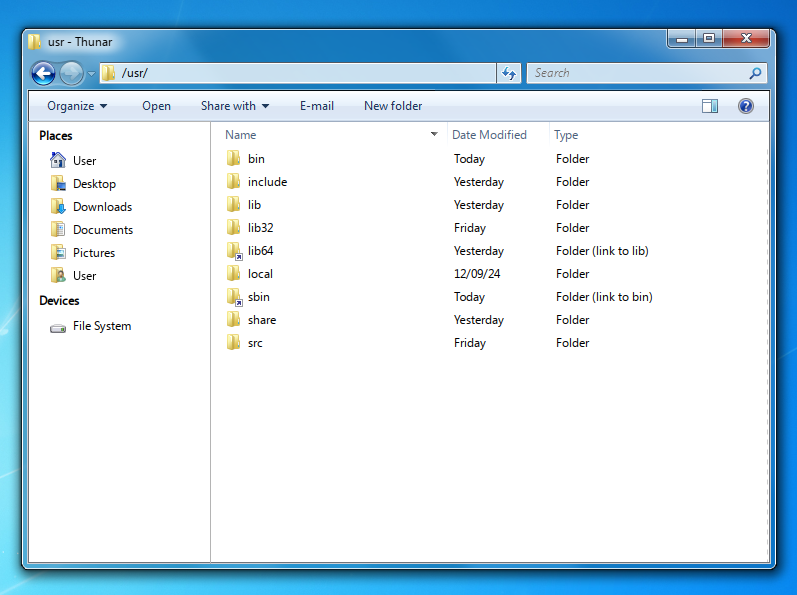
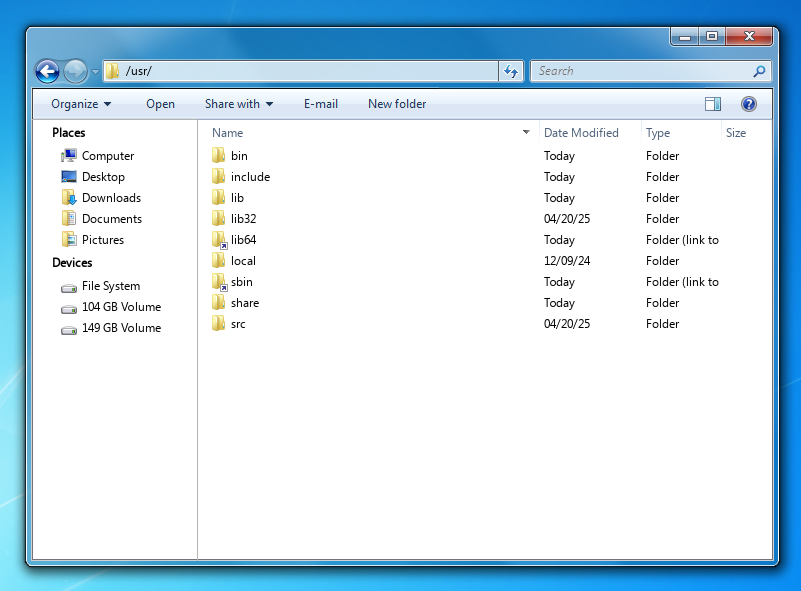
big update! (added more details and finishing touches).

Changed region(s): [[0.0, 0.0305, 0.9937, 1.0]]

diff --git a/gtk-3.0/thunar.css b/gtk-3.0/thunar.css
@@ -74,6 +74,11 @@ Make sure that all changes made here are part of the Thunar application.
 
  }
 
+ .thunar toolbutton .toggle {
+  margin-left: 2px;
+
+ }
+
 .thunar entry {
   height: 16px !important;
   border-bottom: solid #a6b5c4 1px;
@@ -89,7 +94,7 @@ Make sure that all changes made here are part of the Thunar application.
   margin: 2px;
   margin-bottom: 3px;
   margin-right: -6px;
-  margin-left: 7px;
+  margin-left: 8px;
 }
 
 .thunar stack {
@@ -103,10 +108,10 @@ Make sure that all changes made here are part of the Thunar application.
   border-left: 2px ridge #70737a;
   border-bottom: 2px groove #70737a;
   margin-bottom: 7px;
-  box-shadow: -1px -60px 1px 1px black inset;
   outline: 10px solid black;
-  text-decoration: none
-  
+  text-decoration: none;
+  padding-left: 11px;
+  padding-right: 1px;
   }
   
   .thunar scrolledwindow.standard-view {
@@ -260,6 +265,10 @@ Make sure that all changes made here are part of the Thunar application.
   padding: 4px; /* Padding */
 }
 
+.thunar treeview.view {
+  padding: 0px;
+}
+
 
 .thunar treeview header button:hover {
   color: #4c607a; /* Text color */
@@ -283,63 +292,21 @@ Make sure that all changes made here are part of the Thunar application.
   .thunar widget.view:selected:focus {
     background: linear-gradient(#dceafc #c6dffc); }
 
-.treeview {
-  font-family: tahoma;
-  font-weight: 1px;
-}
+  .thunar treeview {
+    -GtkTreeView-vertical-separator: 0;
+    outline-width: 1px;
+    outline-offset: 1px;
+    padding: 2px;
+    -gtk-icon-style: regular; }
+  
+  .thunar treeview.view {
+    padding-top: 0px;
+    padding-bottom: 0px;
+    padding-left: 1px;
+  }
 
-.caja-navigation-window > grid > paned > * {
-  border-top: 2px solid;
-  border-image: url("./thunar-assets/headerbox.png");
-  border-image-slice: 2 2 2 2
-}
-
-.thunar-sidebar .thunar-treeview,
-.thunar-sidebar .thunar-sidebar-title {
-  color: #000;
-  background-color: transparent;
-  font-weight: normal;
-  font-family: Tahoma;
-}
-
-.caja-side-pane scrolledwindow {
-  background-image: url("thunar-assets/wvleft.png");
-  background-position: left top;
-  background-repeat: no-repeat;
-}
-
-.caja-navigation-window toolbar {
-  padding: 2px;
-  margin-top: 0px;
-  margin-left: 0px;
-  margin-right: 0px;
-  margin-bottom: 0px;
-  color: grey;
-  background-color: grey;
-  border-top: 0px solid;
-  border-bottom: 0px solid;
-  border-right: 2px solid;
-  border-left: 7px solid;
-  border-image: url("thunar-assets/fm_toolbar.png");
-  border-image-slice: 2 2 2 7; }
-
-.caja-navigation-window paned > box > paned > box > .horizontal {
-  margin: -4px;
-  margin-bottom: -2px;
-  padding: 3px;
-  padding-top: 4px;
-  border-top: 0px solid;
-  border-bottom: 2px solid;
-  border-right: 2px solid;
-  border-left: 7px solid;
-  border-image: url("thunar-assets/fm_toolbar.png");
-  border-image-slice: 2 2 2 7; }
-
-.caja-navigation-window grid > paned > box > notebook widget > box {
-  padding: 1px;
-  border-color: black;
-  border: 1px solid darkslategray;
-  border-bottom: 1px solid gray;
-  border-right: 1px solid gray;
-  border-radius: 0px;
-  box-shadow: 1px 1px black inset, -1px -1px white inset; }
+  .thunar .frame, .thunar frame > border {
+    box-shadow: none;
+    background-color: white; }
+  
+ 

diff --git a/gtk-3.0/gtk.css b/gtk-3.0/gtk.css
@@ -659,10 +659,9 @@ list separator:backdrop {
 }
 
 /* Treeview styles */
-treeview {
-  -treeview-vertical-separator: 0; /* No vertical separator */
-  padding: 0px;
-}
+treeview.view {
+  padding: 0px}
+
 
 treeview.view:selected,
 treeview.view:selected:focus {
